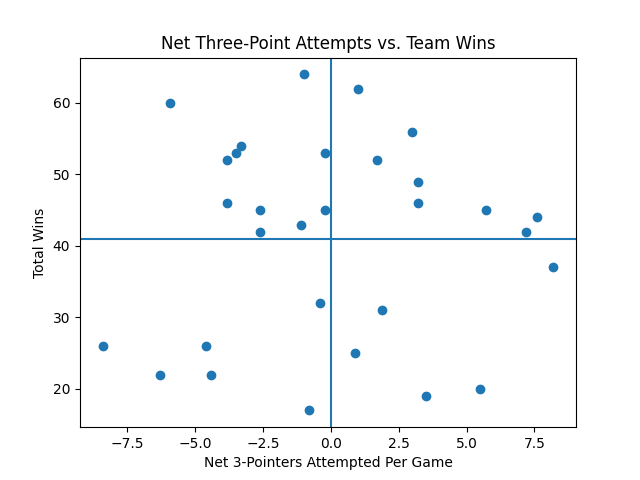
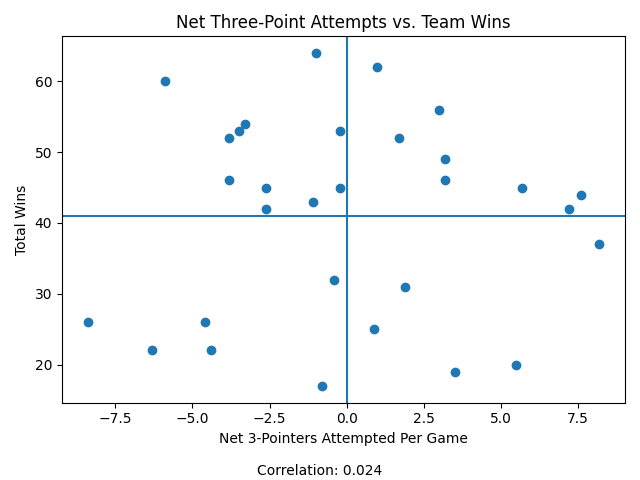
Add correlation coefficients to scatterplots

diff --git a/main.py b/main.py
@@ -38,31 +38,43 @@ def main():
 
     cleaned_df.to_csv("data/team_stats.csv", index=False)
 
+    offensive_correlation = cleaned_df["3PA"].corr(cleaned_df["Wins"])
+    plt.figure()
     plt.scatter(cleaned_df["3PA"], cleaned_df["Wins"])
     plt.axvline(cleaned_df["3PA"].mean())
     plt.axhline(41)
     plt.xlabel("3-Pointers Attempted Per Game")
     plt.ylabel("Total Wins")
     plt.title("Offensive Three-Point Attempts vs. Team Wins")   
+    plt.figtext(0.5, 0.01, f"Correlation: {offensive_correlation:.3f}", ha="center")
+    plt.tight_layout(rect=[0, 0.04, 1, 1])
     plt.savefig("docs/offensive_scatterplot.png")
     plt.show()
 
+    defensive_correlation = cleaned_df["Opponent 3PA"].corr(cleaned_df["Wins"])
+    plt.figure()
     plt.scatter(cleaned_df["Opponent 3PA"], cleaned_df["Wins"])
     plt.axvline(cleaned_df["Opponent 3PA"].mean())
     plt.axhline(41)
     plt.xlabel("Opponent 3-Pointers Attempted Per Game")
     plt.ylabel("Total Wins")
     plt.title("Opponent Three-Point Attempts vs. Team Wins")
+    plt.figtext(0.5, 0.01, f"Correlation: {defensive_correlation:.3f}", ha="center")
+    plt.tight_layout(rect=[0, 0.04, 1, 1])
     plt.savefig("docs/defensive_scatterplot.png")
     plt.show()
 
     cleaned_df["3PA Differential"] = cleaned_df["3PA"] - cleaned_df["Opponent 3PA"]
+    plt.figure()
+    combined_correlation = cleaned_df["3PA Differential"].corr(cleaned_df["Wins"])
     plt.scatter(cleaned_df["3PA Differential"], cleaned_df["Wins"])
     plt.axvline(0)
     plt.axhline(41)
     plt.xlabel("Net 3-Pointers Attempted Per Game")
     plt.ylabel("Total Wins")
     plt.title("Net Three-Point Attempts vs. Team Wins")
+    plt.figtext(0.5, 0.01, f"Correlation: {combined_correlation:.3f}", ha="center")
+    plt.tight_layout(rect=[0, 0.04, 1, 1])
     plt.savefig("docs/combined_scatterplot.png")
     plt.show()
 
